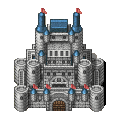
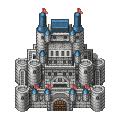
disparition des murs

Changed region(s): [[0.1, 0.05, 0.9, 0.95], [0.5, 0.175, 0.525, 0.225]]

diff --git a/src/GameEngine.cpp b/src/GameEngine.cpp
@@ -34,6 +34,17 @@ void GameEngine::update(float deltaTime)
     {
         monster->update(deltaTime);
     }
+
+    for (auto block = _blocks.begin(); block != _blocks.end(); ++block)
+    {
+        (*block)->update(deltaTime);
+        if ((*block)->getTimeSinceCreated() >= WALL_DURATION)
+        {
+            _map->setType((*block)->getY(), (*block)->getX(), ROAD);
+            block = _blocks.erase(block);
+        }
+    }
+
     // update stuff
 }
 
@@ -59,7 +70,10 @@ void GameEngine::handleEvent(std::pair<int, int> &event)
             event.first /= TILE_SIZE;
             event.second /= TILE_SIZE;
             if (_map->getMap()[event.first][event.second] == ROAD)
+            {
+                _blocks.push_back(new Wall(event.first, event.second));
                 _map->setType(event.first, event.second, BLOCK);
+            }
         }
         return;
     }

diff --git a/include/GameEngine.hpp b/include/GameEngine.hpp
@@ -9,6 +9,7 @@
 
 #include <SFML/Graphics/RenderWindow.hpp>
 #include <Monsters/Monster.hpp>
+#include "Walls/Wall.hpp"
 #include <list>
 
 class Button;
@@ -16,8 +17,8 @@ class Button;
 class GameEngine
 {
 public:
-    GameEngine(std::list<Button*> &b, std::list<Monster*> &m) :
-        _map(nullptr), _buttons{ b }, _monsters{ m } {}
+    GameEngine(std::list<Button*> &b, std::list<Monster*> &m, std::list<Wall*> &w) :
+        _map(nullptr), _buttons{ b }, _monsters{ m }, _blocks { w } {}
 
     void init(Map *map);
     void update(float deltaTime);
@@ -32,6 +33,7 @@ private:
     Monster *testPathfinding;
     std::list<Button*>  &_buttons;
     std::list<Monster*>  &_monsters;
+    std::list<Wall*>  &_blocks;
 };
 
 

diff --git a/include/Walls/Wall.hpp b/include/Walls/Wall.hpp
@@ -7,15 +7,21 @@
 
 #include "PassiveElement.hpp"
 
-#define WALL_DURATION   2.0f
+#define WALL_DURATION   2.0
 
-class Wall : public APassiveElement
+class Wall : public PassiveElement
 {
 public:
-    Wall();
+    Wall(int, int);
     virtual ~Wall();
     void update(float&);
+
+    inline float    getTimeSinceCreated() const { return _timeSinceCreated; };
+    inline int      getY() const { return _pos.first; };
+    inline int      getX() const { return _pos.second; };
+
 private:
+    std::pair<int, int> _pos;
     float _timeSinceCreated;
 };
 

diff --git a/include/Core.hpp b/include/Core.hpp
@@ -13,6 +13,7 @@
 #include <list>
 #include <Monsters/Monster.hpp>
 #include <Tower/Projectile.hpp>
+#include "Walls/Wall.hpp"
 
 class Core
 {
@@ -27,7 +28,9 @@ private:
     std::list<Button*>  _buttons;
     std::list<Monster*>  _monsters;
     std::list<Projectile*>  _projectile;
-    GameEngine          _engine{ _buttons, _monsters };
+    std::list<Wall*> _blocks;
+
+    GameEngine          _engine{ _buttons, _monsters, _blocks };
     Display             _display{ _buttons, _monsters };
 
     Map     *_map;

diff --git a/include/Map.hpp b/include/Map.hpp
@@ -39,7 +39,6 @@ public:
     inline void setPositionGround(float y, float x) { _ground.setPosition(y, x); };
     inline void setPositionBlock(float y, float x) { _block.setPosition(y, x); };
     inline void setPositionCastle(float y, float x) { _castle.setPosition(y, x); };
-
     inline void setType(int y, int x, typeMap type) { _map[y][x] = type; };
 
 private:

diff --git a/src/Walls/Wall.cpp b/src/Walls/Wall.cpp
@@ -3,9 +3,13 @@
 //
 
 #include "Walls/Wall.hpp"
+#include <iostream>
 
-Wall::Wall() : _timeSinceCreated(0f)
-{}
+Wall::Wall(int y, int x) : _timeSinceCreated(0.0)
+{
+    _pos.first = y;
+    _pos.second = x;
+}
 
 Wall::~Wall()
 {}
